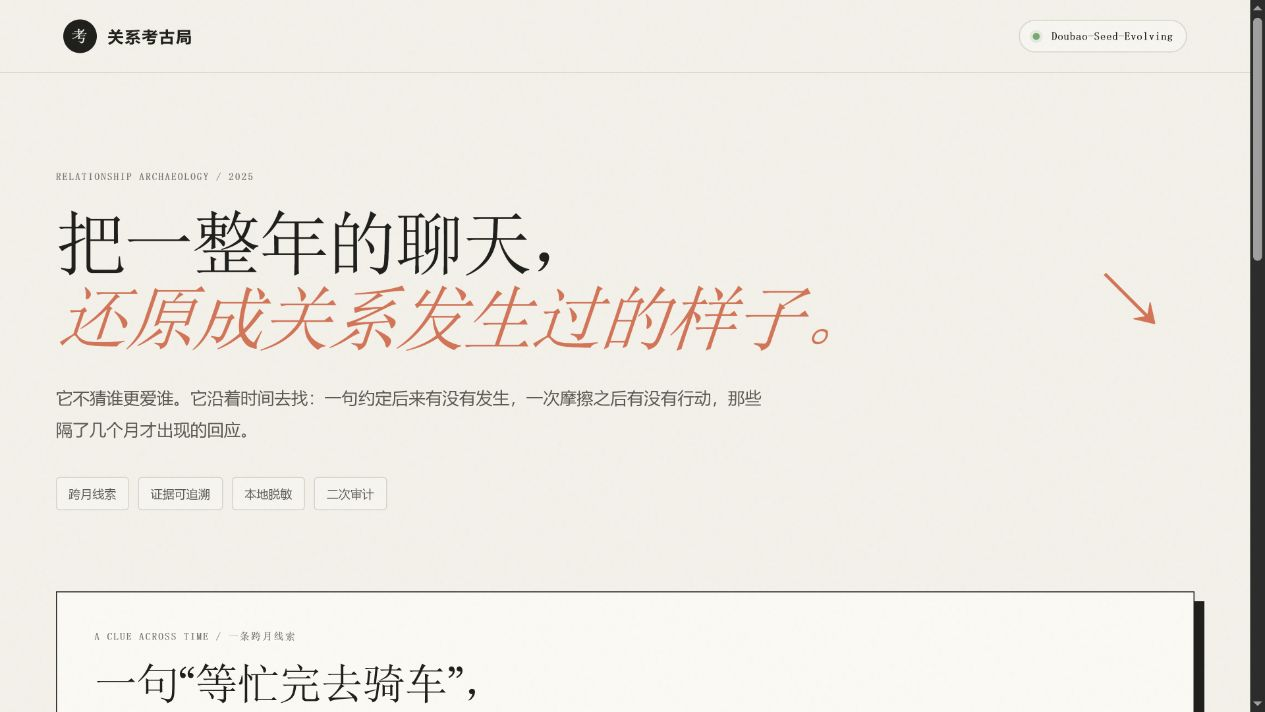
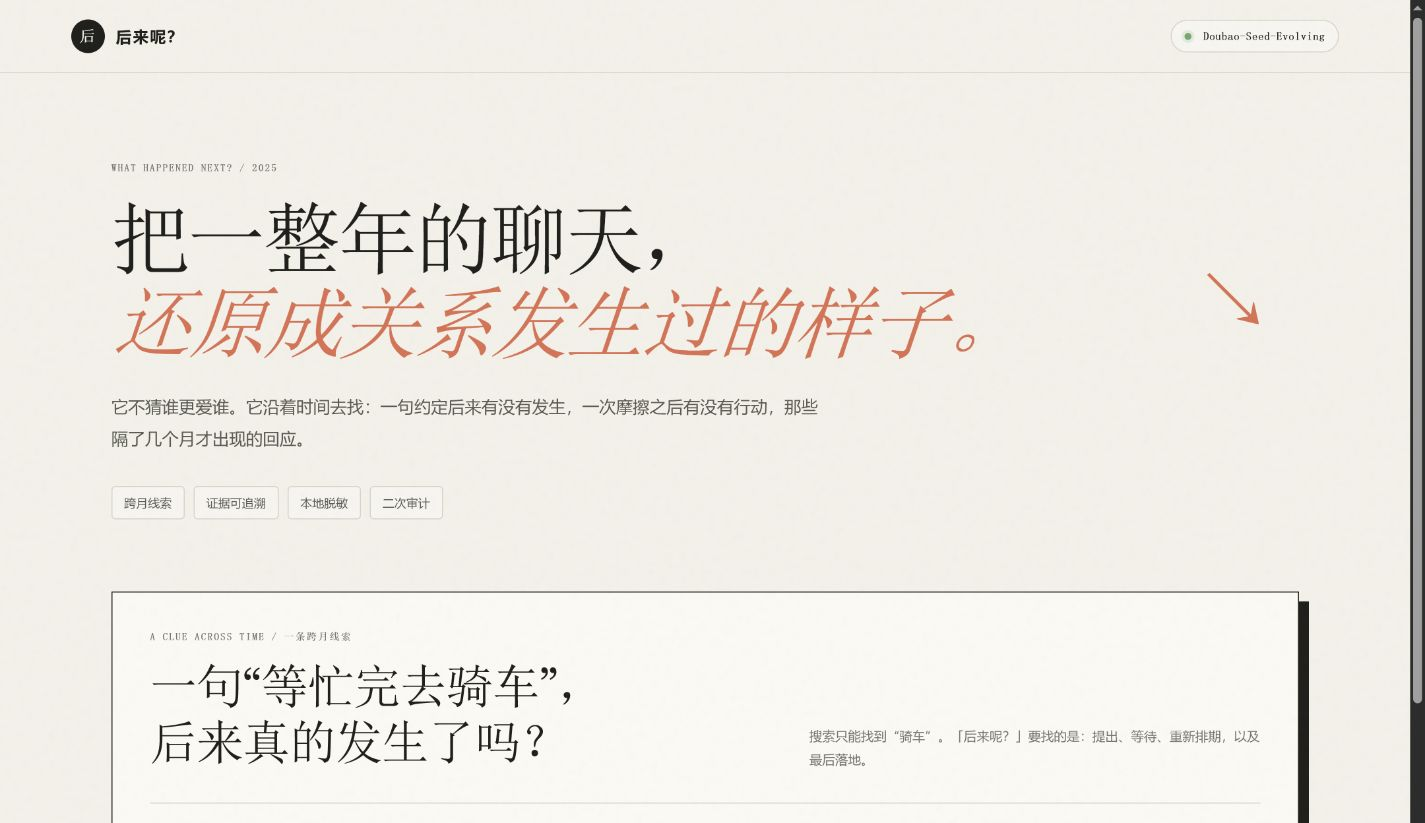
rename project to chat later

diff --git a/static/index.html b/static/index.html
@@ -3,23 +3,23 @@
   <head>
     <meta charset="UTF-8" />
     <meta name="viewport" content="width=device-width, initial-scale=1.0" />
-    <meta name="description" content="用聊天证据重建一年的关系变化" />
-    <title>关系考古局 · 聊天关系年鉴</title>
+    <meta name="description" content="把聊天里没说完的故事找回来" />
+    <title>后来呢？· 聊天故事年鉴</title>
     <link rel="stylesheet" href="/styles.css" />
   </head>
   <body>
     <div class="grain"></div>
     <header class="topbar">
-      <a class="brand" href="#top" aria-label="关系考古局首页">
-        <span class="brand-mark">考</span>
-        <span>关系考古局</span>
+      <a class="brand" href="#top" aria-label="后来呢首页">
+        <span class="brand-mark">后</span>
+        <span>后来呢？</span>
       </a>
       <div class="model-chip"><i></i> Doubao-Seed-Evolving</div>
     </header>
 
     <main id="top">
       <section class="hero">
-        <div class="eyebrow">RELATIONSHIP ARCHAEOLOGY / 2025</div>
+        <div class="eyebrow">WHAT HAPPENED NEXT? / 2025</div>
         <h1>把一整年的聊天，<br /><em>还原成关系发生过的样子。</em></h1>
         <p class="hero-copy">
           它不猜谁更爱谁。它沿着时间去找：一句约定后来有没有发生，一次摩擦之后有没有行动，那些隔了几个月才出现的回应。
@@ -33,7 +33,7 @@
         <div class="clue-intro">
           <span class="card-index">A CLUE ACROSS TIME / 一条跨月线索</span>
           <h2>一句“等忙完去骑车”，<br />后来真的发生了吗？</h2>
-          <p>搜索只能找到“骑车”。关系考古要找的是：提出、等待、重新排期，以及最后落地。</p>
+          <p>搜索只能找到“骑车”。「后来呢？」要找的是：提出、等待、重新排期，以及最后落地。</p>
         </div>
         <div class="clue-track">
           <article class="clue-card coral">
@@ -92,7 +92,7 @@
             <p><strong>先在本地做预处理</strong>手机号、邮箱、身份证和长号码会被遮盖。选择分析后，脱敏文本才会发送至模型 API。</p>
           </div>
           <button id="analyzeButton" class="primary-button" disabled>
-            <span>开始关系考古</span><b>↗</b>
+            <span>开始寻找后来</span><b>↗</b>
           </button>
           <div id="previewStats" class="preview-stats" hidden></div>
         </aside>
@@ -143,7 +143,7 @@
     <dialog id="evidenceDialog">
       <button id="closeDialog" aria-label="关闭">×</button><span class="card-index">ORIGINAL EVIDENCE</span><div id="evidenceBody"></div>
     </dialog>
-    <footer><span>关系考古局 · 一个轻量化趣味实践</span><span>Powered by Doubao-Seed-Evolving</span></footer>
+    <footer><span>后来呢？· 把聊天里没说完的故事找回来</span><span>Powered by Doubao-Seed-Evolving</span></footer>
     <script src="/app.js"></script>
   </body>
 </html>

diff --git a/static/app.js b/static/app.js
@@ -105,7 +105,7 @@ function animateProgress() {
 
 function renderReport(data) {
   const r = data.report;
-  $("#reportTitle").textContent = r.title || "关系考古报告";
+  $("#reportTitle").textContent = r.title || "你们的后来";
   $("#reportSubtitle").textContent = r.subtitle || "";
   $("#overview").textContent = r.overview || "";
   $("#engineBadge").textContent = data.engine === "local-demo" ? "LOCAL PREVIEW · 未调用模型" : `${data.engine} · ${data.stages.join(" → ")}`;

diff --git a/relationship_archaeology/demo.py b/relationship_archaeology/demo.py
@@ -55,7 +55,7 @@ def build_demo_report(messages: list[ChatMessage]) -> dict:
     ]
     evidence = [item.id for item in messages]
     return {
-        "title": "你们这一年的关系考古报告",
+        "title": "你们这一年的后来",
         "subtitle": "真正重要的变化，常常藏在重复出现的小事里",
         "overview": "这是未连接模型时的本地预览。它用规则展示报告形态；连接 Doubao-Seed-Evolving 后，模型会读取完整记录，重建跨月事件与互动变化，并由第二轮审计核对证据。",
         "confidence_note": "当前为本地演示引擎，不能替代模型深度分析。评分仅用于界面预览。",
@@ -94,4 +94,3 @@ def build_demo_report(messages: list[ChatMessage]) -> dict:
         ],
         "closing_letter": "谢谢你，让这一年的许多普通日子有了可以回看的坐标。",
     }
-

diff --git a/relationship_archaeology/server.py b/relationship_archaeology/server.py
@@ -93,7 +93,7 @@ class Handler(BaseHTTPRequestHandler):
 
 
 def run() -> None:
-    parser = argparse.ArgumentParser(description="Run the Relationship Archaeology demo")
+    parser = argparse.ArgumentParser(description="Run the Chat Later demo")
     parser.add_argument("--host", default="127.0.0.1")
     parser.add_argument("--port", default=8765, type=int)
     parser.add_argument(
@@ -105,7 +105,7 @@ def run() -> None:
     if args.replay:
         os.environ["ENABLE_REPLAY"] = "1"
     server = ThreadingHTTPServer((args.host, args.port), Handler)
-    print(f"Relationship Archaeology is running at http://{args.host}:{args.port}")
+    print(f"Chat Later is running at http://{args.host}:{args.port}")
     try:
         server.serve_forever()
     except KeyboardInterrupt:

diff --git a/relationship_archaeology/prompts.py b/relationship_archaeology/prompts.py
@@ -3,7 +3,7 @@ from __future__ import annotations
 import json
 
 
-SYSTEM_PROMPT = """你是“关系考古局”的报告 Agent。你分析的是聊天行为与叙事变化，不做心理诊断，不判断人格，不裁决谁对谁错。
+SYSTEM_PROMPT = """你是“后来呢？”的报告 Agent。你分析的是聊天行为与叙事变化，不做心理诊断，不判断人格，不裁决谁对谁错。
 所有事实性结论必须引用输入中的证据编号 E00001 这类 ID；证据不足时明确写“无法判断”。将观察、推断和建议分开。输出严格 JSON，不使用 Markdown 代码围栏。"""
 
 
@@ -82,4 +82,3 @@ def build_audit_prompt(records: str, draft: dict) -> str:
 
 待审计报告：
 {json.dumps(draft, ensure_ascii=False)}"""
-

diff --git a/relationship_archaeology/service.py b/relationship_archaeology/service.py
@@ -136,7 +136,7 @@ def _collect_evidence(report: dict, messages: list[ChatMessage]) -> dict[str, di
 def markdown_export(result: dict[str, Any]) -> str:
     report = result["report"]
     lines = [
-        f"# {report.get('title', '关系考古报告')}",
+        f"# {report.get('title', '你们的后来')}",
         "",
         f"> {report.get('subtitle', '')}",
         "",

diff --git a/relationship_archaeology/__init__.py b/relationship_archaeology/__init__.py
@@ -1,4 +1,3 @@
-"""Relationship Archaeology: an evidence-grounded chat yearbook agent."""
+"""Chat Later: an evidence-grounded chat yearbook agent."""
 
 __version__ = "0.1.0"
-

diff --git a/README.md b/README.md
@@ -1,10 +1,10 @@
-# 关系考古局 / Relationship Archaeology
+# 后来呢？ / Chat Later
 
 把一年聊天整理成一份**可以点回原文的关系年鉴**。
 
 它不判断谁更爱谁，也不做简单的正负面情绪打分。它沿着时间寻找一件事的起点与后来：一句约定有没有落地，一次反馈之后有没有行动，那些隔了几个月才出现的回应。
 
-![关系考古局](article/assets/06-新版项目首页.png)
+![后来呢？](article/assets/06-新版项目首页.png)
 
 ## 它能看到什么
 
@@ -28,7 +28,7 @@
 04 / 05  “我到地铁口了，今天风有点大。”
 ```
 
-关系考古局关注的不是“骑车”出现了几次，而是这个约定如何从邀约变成行动。
+「后来呢？」关注的不是“骑车”出现了几次，而是这个约定如何从邀约变成行动。
 
 ![一条约定跨过 27 天](article/assets/07-跨月线索卡片.png)
 
